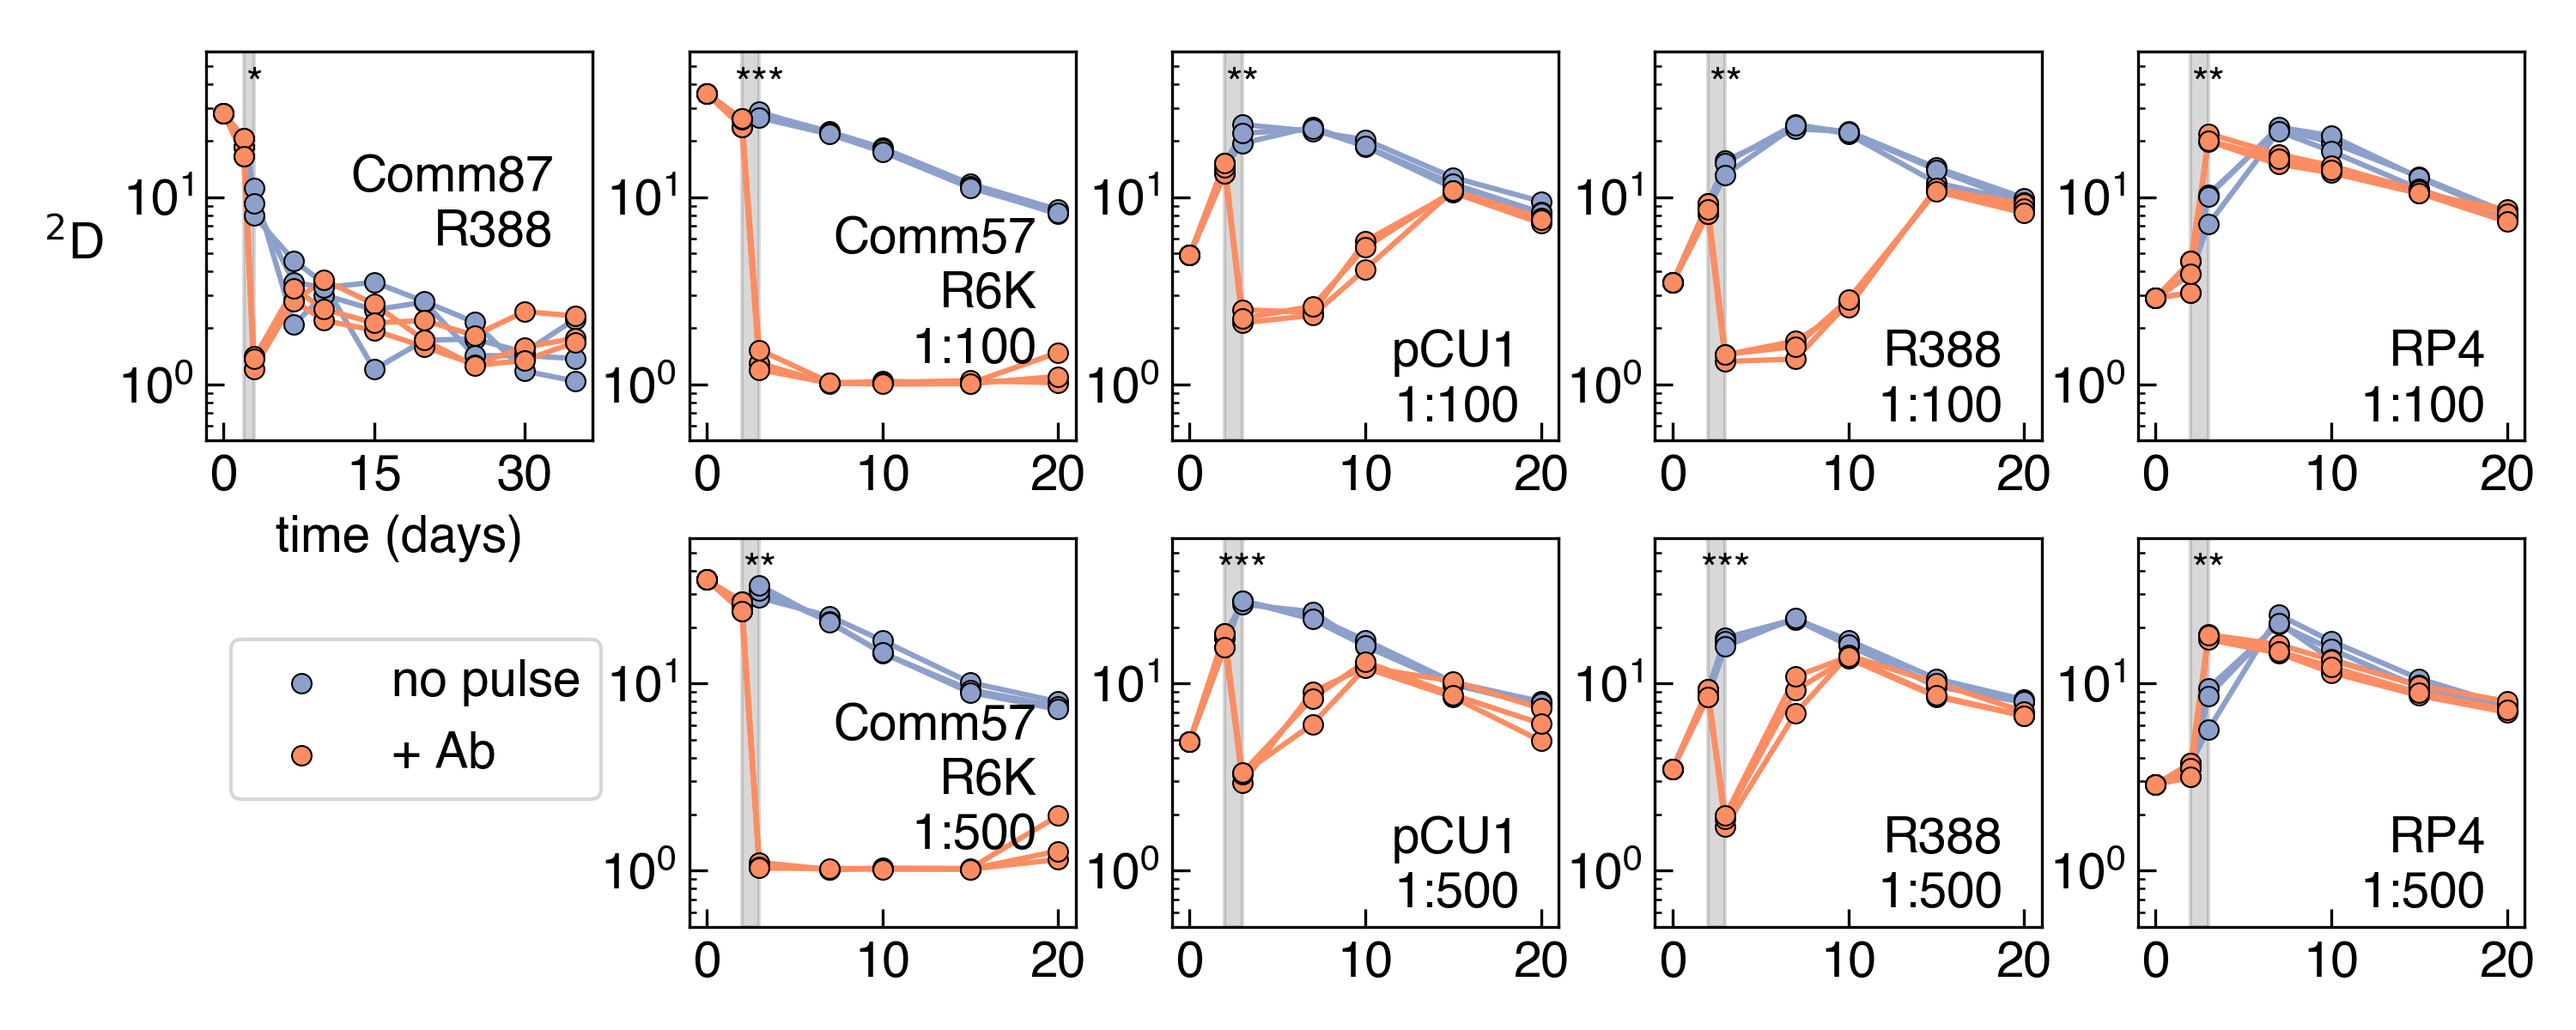
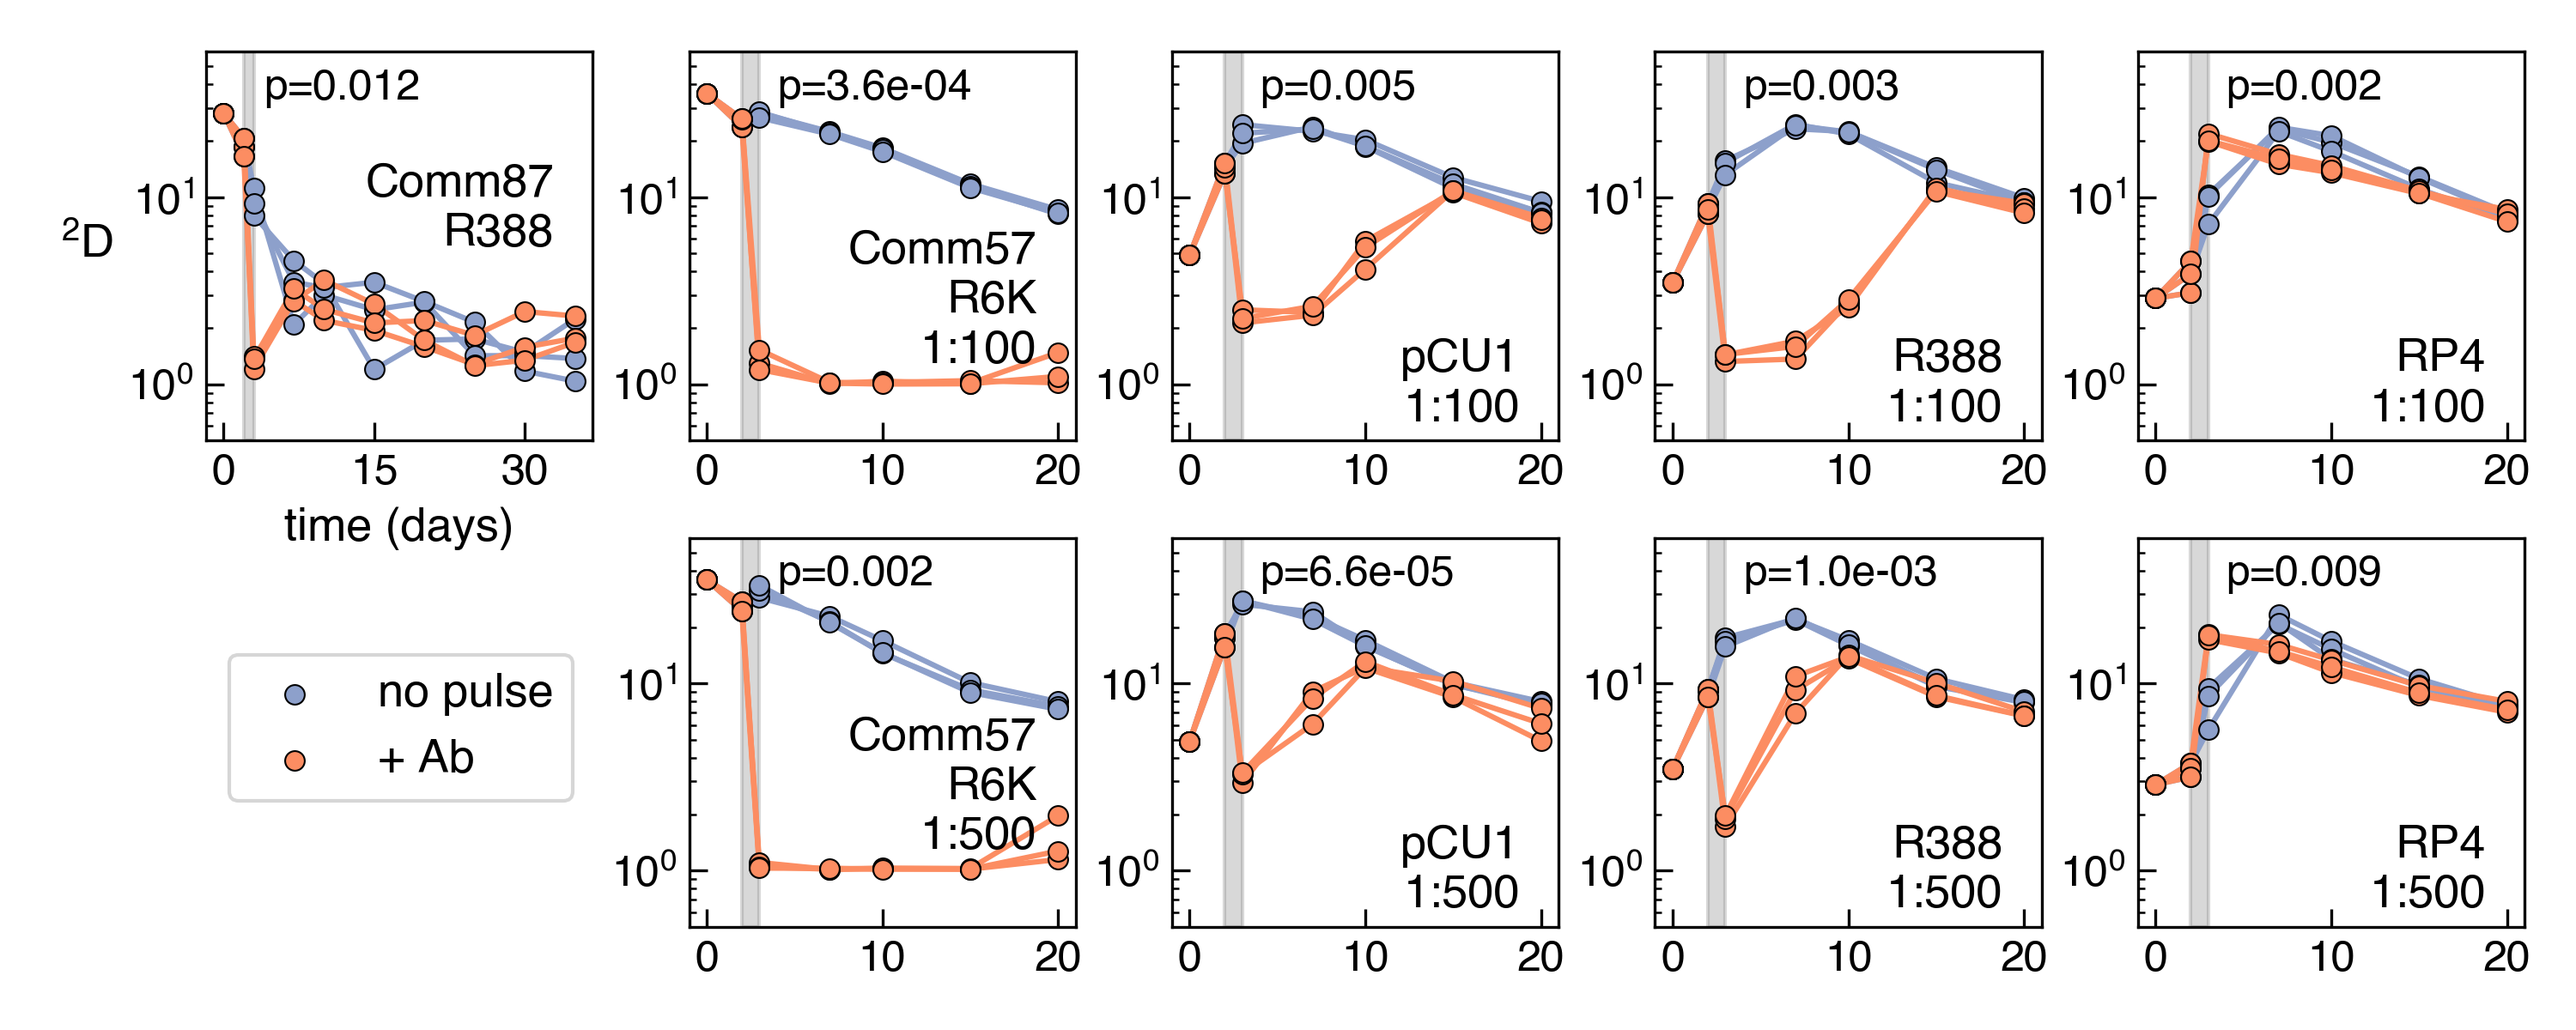
updated in-figure p value

diff --git a/Keio_Community/diversity_change.py b/Keio_Community/diversity_change.py
@@ -3,15 +3,11 @@ import pandas as pd
 import matplotlib.pyplot as plt
 from scipy import stats
 
-def p_to_star(p):
+def format_pval(p):
+    """Format a p-value for display on the figure."""
     if p < 0.001:
-        return "***"
-    elif p < 0.01:
-        return "**"
-    elif p < 0.05:
-        return "*"
-    else:
-        return "ns"
+        return f"p={p:.1e}"
+    return f"p={p:.3f}"
 
 communities = ["Comm87","Comm57_R6K_100","Comm57_pCU1_100","Comm57_R388_100","Comm57_RP4_100",
                "Comm57_R6K_500","Comm57_pCU1_500","Comm57_R388_500","Comm57_RP4_500"]
@@ -45,7 +41,7 @@ for i, comm in enumerate(communities):
     div_p = simpson[3:,2]
     t_stat, p_value = stats.ttest_ind(div_np, div_p, equal_var=False) # two-sided Welch's t-test
     print(f"{comm} Welch's t-test (two-sided): {p_value:.2e}")
-    ax.text(3, 50, p_to_star(p_value), ha='center', va='top', fontsize=12)
+    ax.text(4, 30, format_pval(p_value), ha='left', va='bottom', fontsize=12)
     if i==0:
         ax.set_xticks([0,15,30])
         ax.text(x=0.9,y=0.5,s="Comm87\nR388",ha="right",transform=ax.transAxes)
@@ -70,6 +66,6 @@ fig.legend(loc="lower left",bbox_to_anchor=(0.08,0.2))
 axes[0].set_xlabel("time (days)")
 axes[0].set_ylabel("$^2$D",rotation=0,va="center",ha="right")
 fig.subplots_adjust(bottom=0.1,left=0.08,top=0.95,right=0.98,hspace=0.25,wspace=0.25)
-# fig.savefig("./figures/simpson_diversity.png",dpi=300)
+fig.savefig("./figures/simpson_diversity.png",dpi=300)
 
 plt.show()
